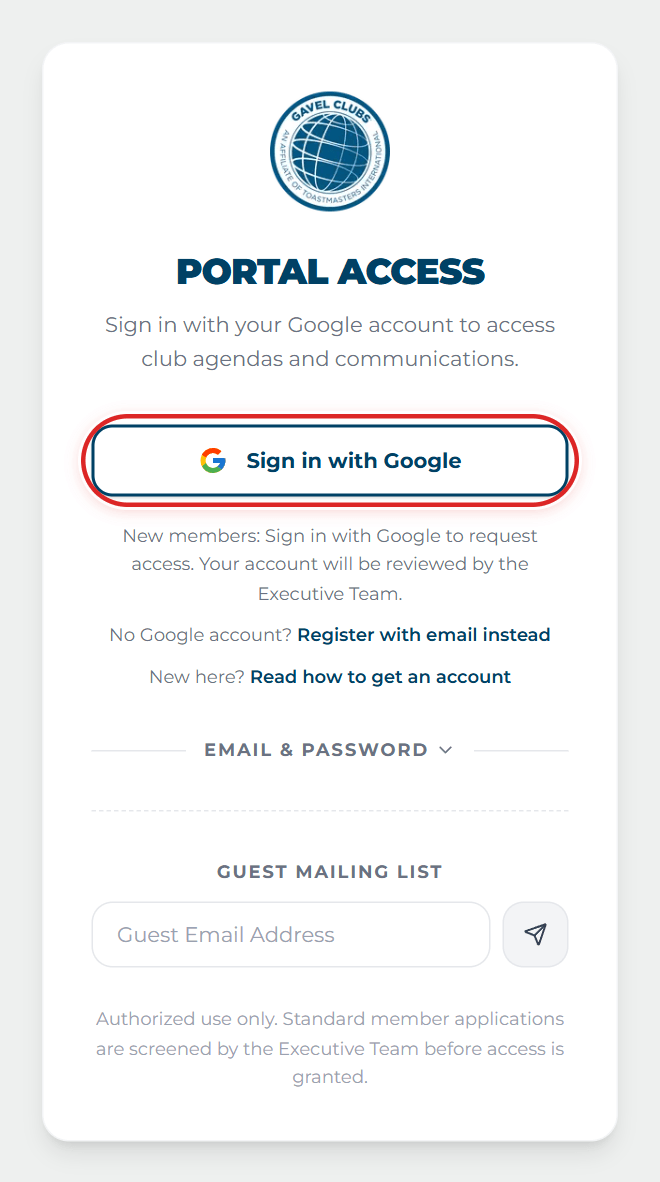
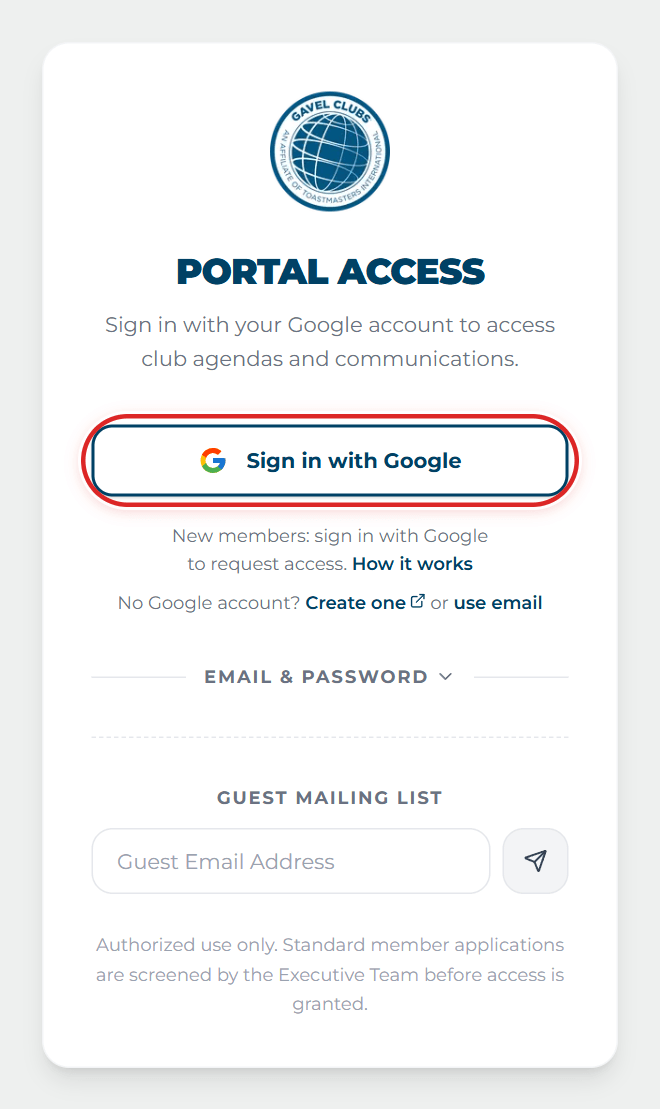
Link Google's "create an account" help from the sign-in flow
The login card's helper text is merged into two lines so the new link
doesn't add a third: "No Google account? Create one or use email". The
sign-up notice and the tutorial link to the same page.

Claude-Session: https://claude.ai/code/session_01DXTeTp54QJaR67hwTUSGYd

diff --git a/app/login/page.tsx b/app/login/page.tsx
@@ -11,11 +11,14 @@
  */
 import { auth, signIn } from "@/auth";
 import Link from "next/link";
-import { ChevronDown } from "lucide-react";
+import { ChevronDown, ExternalLink } from "lucide-react";
 import { AuthCard, AuthPage } from "@/components/common/auth-card";
 import { redirect } from "next/navigation";
 import GuestSubscribe from "@/components/login/guest-subscribe";
 import EmailLoginForm from "@/components/login/email-login-form";
+import { CREATE_GOOGLE_ACCOUNT_URL } from "@/lib/links";
+
+const LINK = "font-semibold text-brand-loyal-blue underline-offset-2 hover:underline";
 
 export default async function LoginPage() {
   const session = await auth();
@@ -49,18 +52,24 @@ export default async function LoginPage() {
           </button>
         </form>
 
-        <div className="mt-4 space-y-2 text-center text-xs leading-relaxed text-gray-500">
-          <p>New members: Sign in with Google to request access. Your account will be reviewed by the Executive Team.</p>
+        {/* Kept to two short lines; the footer below already says new accounts are reviewed. */}
+        <div className="mt-4 space-y-1.5 text-center text-xs leading-relaxed text-balance text-gray-500">
           <p>
-            No Google account?{" "}
-            <Link href="/signup" className="font-semibold text-brand-loyal-blue underline-offset-2 hover:underline">
-              Register with email instead
+            New members: sign in with Google to request access.{" "}
+            <Link href="/tutorial#create-account" className={LINK}>
+              How it works
             </Link>
           </p>
           <p>
-            New here?{" "}
-            <Link href="/tutorial#create-account" className="font-semibold text-brand-loyal-blue underline-offset-2 hover:underline">
-              Read how to get an account
+            No Google account?{" "}
+            <a href={CREATE_GOOGLE_ACCOUNT_URL} target="_blank" rel="noopener noreferrer" className={LINK}>
+              Create one
+              <ExternalLink size={11} className="ml-0.5 inline align-baseline" aria-hidden="true" />
+              <span className="sr-only"> (opens Google Help in a new tab)</span>
+            </a>{" "}
+            or{" "}
+            <Link href="/signup" className={LINK}>
+              use email
             </Link>
           </p>
         </div>

diff --git a/app/tutorial/page.tsx b/app/tutorial/page.tsx
@@ -19,6 +19,7 @@
 import Link from "next/link";
 import { auth } from "@/auth";
 import { Lock } from "lucide-react";
+import { CREATE_GOOGLE_ACCOUNT_URL } from "@/lib/links";
 import {
   Part, Section, SubHeading, Bullets, Bullet, Steps, Step, Note, Figure, ExampleEmail, MembersOnly,
 } from "@/components/tutorial/blocks";
@@ -199,7 +200,16 @@ export default async function TutorialPage() {
               <Note title="No Gmail? No problem">
                 <p>
                   You don&apos;t need your own Gmail address. A parent&apos;s or family member&apos;s Google account
-                  works fine — you&apos;ll enter <em>your</em>{" "}name in the next step.
+                  works fine — you&apos;ll enter <em>your</em>{" "}name in the next step. You can also{" "}
+                  <a
+                    href={CREATE_GOOGLE_ACCOUNT_URL}
+                    target="_blank"
+                    rel="noopener noreferrer"
+                    className="text-brand-loyal-blue font-semibold underline"
+                  >
+                    make a free Google account
+                  </a>{" "}
+                  in a few minutes (the <strong>Create one</strong>{" "}link on the login page goes there too).
                 </p>
                 <p>
                   Google will ask whether AgendaMaster may create spreadsheets and send email for you.
@@ -240,7 +250,7 @@ export default async function TutorialPage() {
               <SubHeading>What if I can&apos;t use Google at all?</SubHeading>
               <p className="text-gray-700 leading-relaxed">
                 A few members have no way to use any Google account. For them, there&apos;s a{" "}
-                <strong>Register with email instead</strong>{" "}link under the Google button on the login page. It lets
+                <strong>use email</strong>{" "}link under the Google button on the login page. It lets
                 you make an account with an email address and a password.
               </p>
               <Bullets>

diff --git a/components/login/email-signup.tsx b/components/login/email-signup.tsx
@@ -20,6 +20,7 @@ import { Input } from '@/components/ui/input'
 import { Label } from '@/components/ui/label'
 import { FormError, Notice, Spinner } from '@/components/common/surfaces'
 import { cn } from '@/lib/utils'
+import { CREATE_GOOGLE_ACCOUNT_URL } from '@/lib/links'
 import { registerWithPassword } from '@/app/actions/profile'
 import { isValidEmail, normalizeEmail, validateNewPassword } from '@/lib/password-rules'
 
@@ -51,7 +52,11 @@ export default function EmailSignup() {
 
         <Notice tone="brand" icon={false} className="text-xs">
           <p>
-            <strong className="text-gray-800">You don&apos;t need a Gmail address to use Google sign-in.</strong>{' '}A parent&apos;s or family member&apos;s Google account works fine — you will still enter your own name afterwards. You can also make a free Google account in a few minutes.
+            <strong className="text-gray-800">You don&apos;t need a Gmail address to use Google sign-in.</strong>{' '}A parent&apos;s or family member&apos;s Google account works fine — you will still enter your own name afterwards. You can also{' '}
+            <a href={CREATE_GOOGLE_ACCOUNT_URL} target="_blank" rel="noopener noreferrer" className="font-semibold text-brand-loyal-blue underline underline-offset-2">
+              make a free Google account
+            </a>{' '}
+            in a few minutes.
           </p>
         </Notice>
 

diff --git a/lib/links.ts b/lib/links.ts
@@ -1,0 +1,2 @@
+/** Google's own help page for making a Google account (linked from the sign-in flow and tutorial). */
+export const CREATE_GOOGLE_ACCOUNT_URL = "https://support.google.com/mail/answer/56256"

diff --git a/README.md b/README.md
@@ -15,7 +15,7 @@ AgendaMaster is a comprehensive management platform designed to automate the ope
 
 ### 👥 Member & Role Management
 - **Identity Verification**: Members provide their own name during a Profile Completion step after first sign-in, ensuring accurate club records even when using a parent's or shared Google account.
-- **Members Without Google**: The rare member who cannot use any Google account can register with an email and password at `/signup` (linked quietly from the login page, behind a notice that steers them back to Google). They sign in through the same **Email & Password** form the admin uses, then go through the same name entry and admin approval. When such a member is Toastmaster, their agenda sheet is created in — and the agenda email sent from — the club's Google account (`coquitlamgavel@gmail.com`, with Reply-To set to the member); later updates go through the service account. An admin connects the club account once from **Member Management** (see the [Google Cloud Setup Guide](./docs/GOOGLE_CLOUD_SETUP.md#step-7-connect-the-club-google-account-members-without-google)). There is no password reset: an admin removes the account and the member registers again.
+- **Members Without Google**: The rare member who cannot use any Google account can register with an email and password at `/signup` (linked quietly from the login page next to a link to Google's own “create a Google account” help page, behind a notice that steers them back to Google). They sign in through the same **Email & Password** form the admin uses, then go through the same name entry and admin approval. When such a member is Toastmaster, their agenda sheet is created in — and the agenda email sent from — the club's Google account (`coquitlamgavel@gmail.com`, with Reply-To set to the member); later updates go through the service account. An admin connects the club account once from **Member Management** (see the [Google Cloud Setup Guide](./docs/GOOGLE_CLOUD_SETUP.md#step-7-connect-the-club-google-account-members-without-google)). There is no password reset: an admin removes the account and the member registers again.
 - **Automated Sequencing**: Intelligent role assignment based on historical participation and club-specific sequencing rules.
 - **Guest Subscription**: Dedicated system for managing guest subscribers and converted members.
 - **Admin Dashboard**: Centralized control for account approvals, inline name editing, role overrides, and meeting scheduling.
